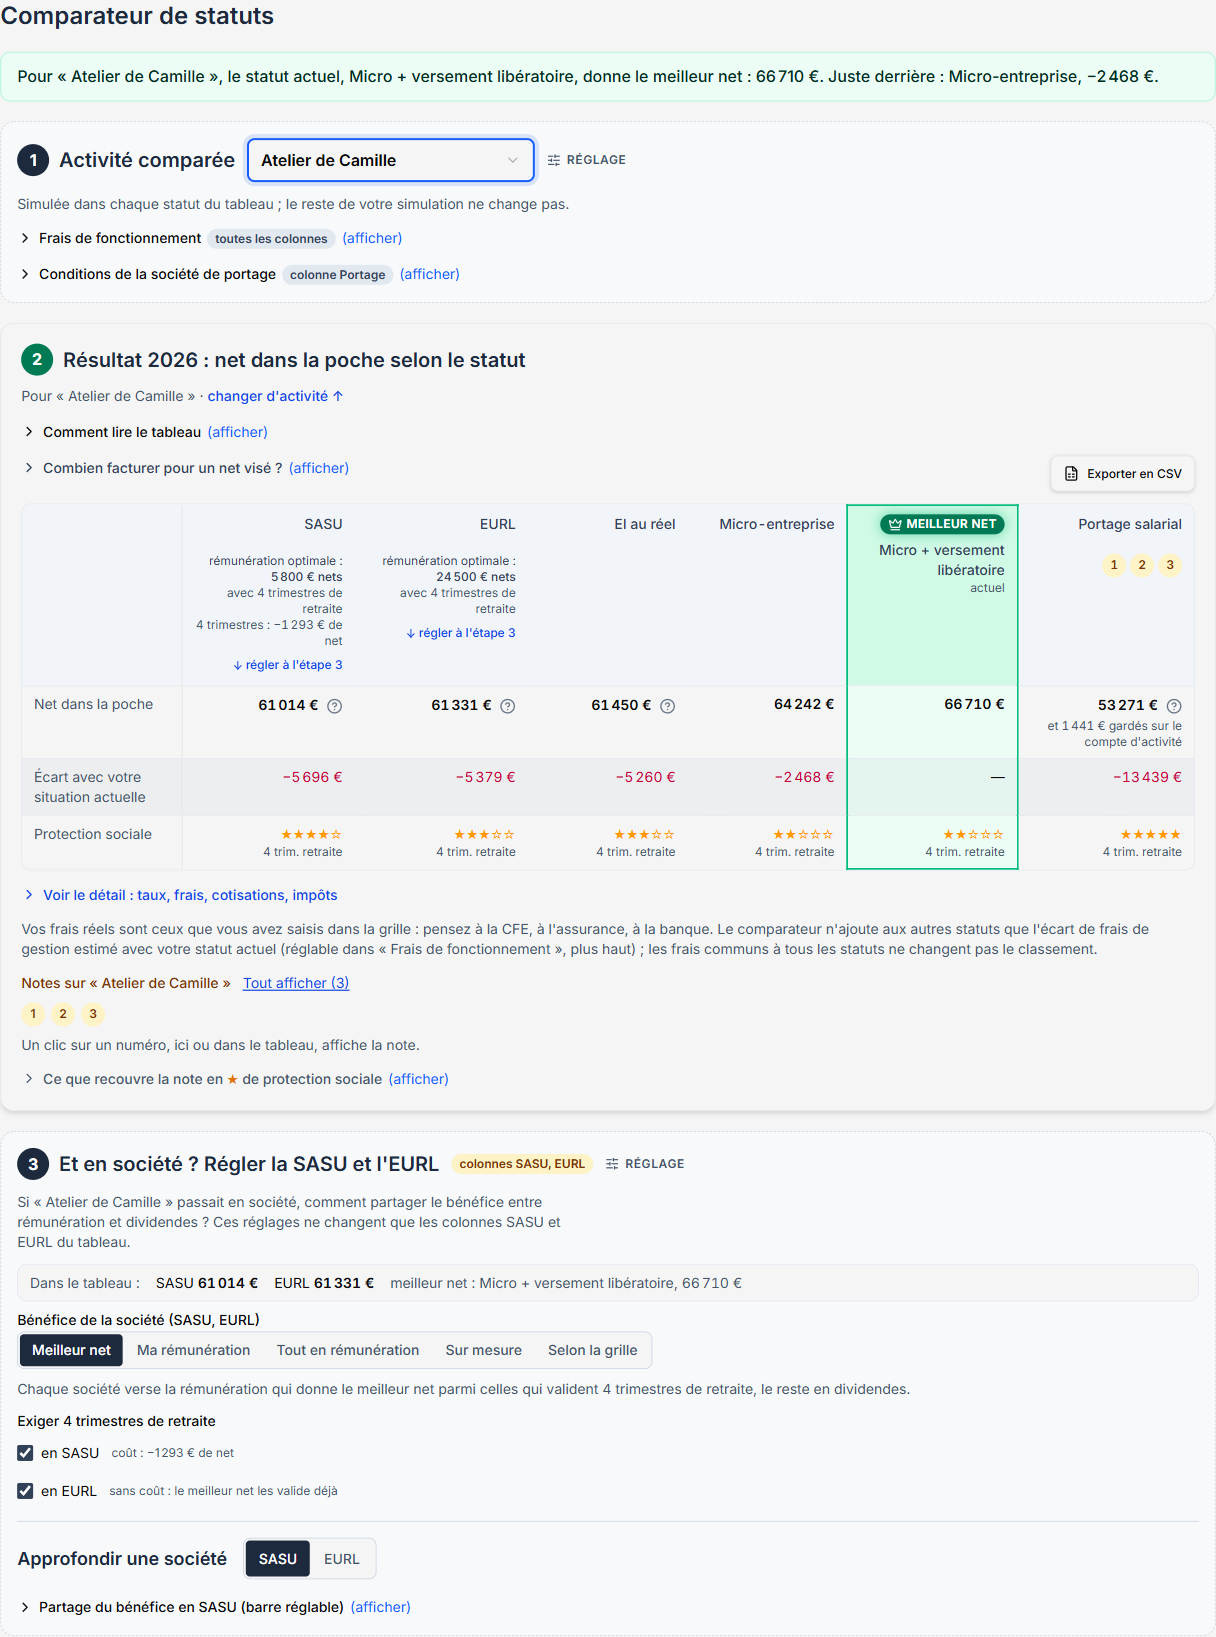
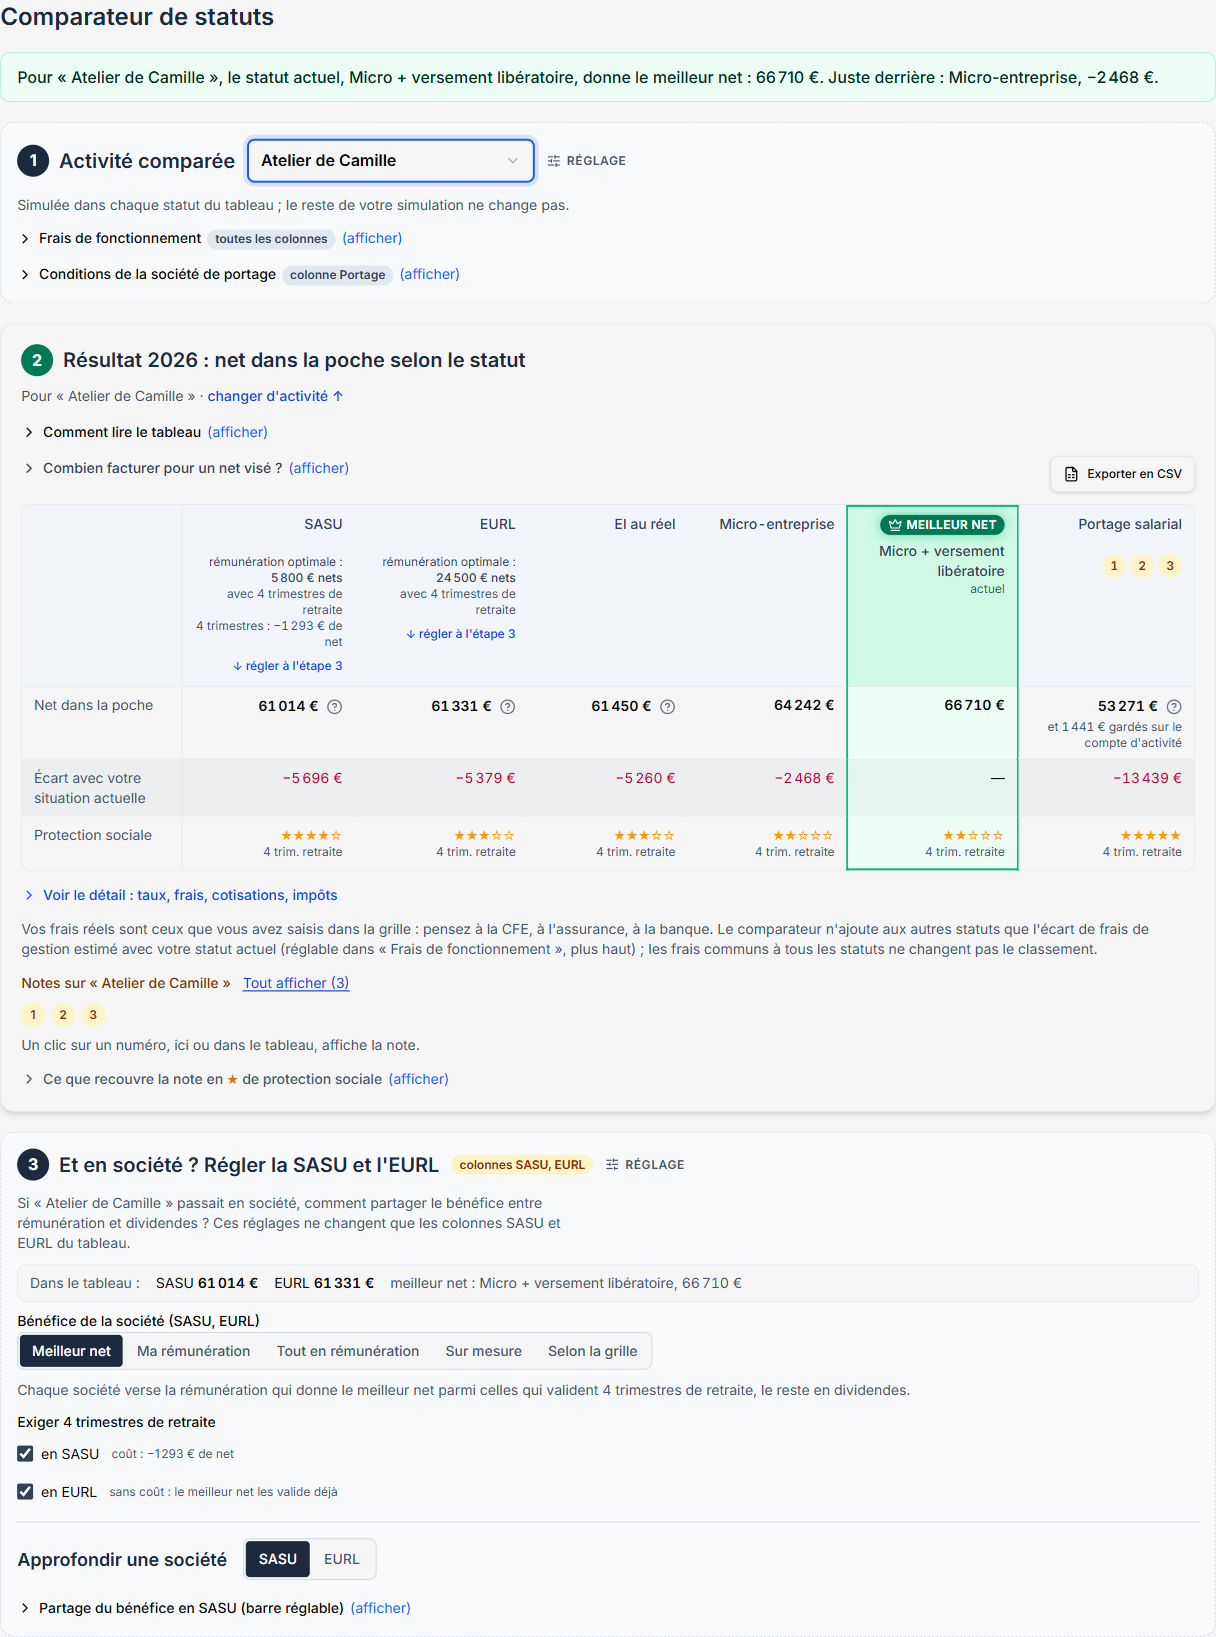
docs: README : accroche « Vous êtes indépendant ? », données sur le poste dans un encadré, couple en union libre dans l'étape 3 ; captures : résultats avec leur détail, carte « Et si vous étiez mariés ou pacsés ? » sur l'exemple en union libre

diff --git a/captures/readme.captures.ts b/captures/readme.captures.ts
@@ -2,11 +2,27 @@
 // Génère les captures d'écran du README (docs/captures/) à partir de la simulation fictive de la démo web.
 
 import path from "node:path"
+import type { ElectronApplication, Page } from "@playwright/test"
 import { test, expect, deposerSession } from "../e2e/support/fixtures"
 import { sessionExemple } from "../src/web/session-exemple"
 
 // À l'échelle CSS (1 pixel par pixel de la page) : des images de même taille quel que soit le facteur d'échelle de l'écran.
 const DOSSIER = path.resolve("docs/captures")
+
+// Pour les captures d'une zone, la barre du haut (fixe) et la barre de résumé (collante) sont masquées : elles la recouvriraient.
+const SANS_BARRE = "nav, [data-barre-collante] { visibility: hidden !important; }"
+
+/**
+ * Agrandit la page pour qu'une zone haute y tienne entière : une zone plus haute que la page est capturée décalée (la
+ * page, recalculée sans barre de défilement, se recentre pendant la capture). Une fenêtre de cette hauteur dépasserait
+ * l'écran, que Windows lui impose : la taille est imposée à la page elle-même.
+ */
+async function pageHaute(electronApp: ElectronApplication, page: Page) {
+  const cdp = await electronApp.context().newCDPSession(page)
+  const facteur = await page.evaluate(() => window.devicePixelRatio)
+  await cdp.send("Emulation.setDeviceMetricsOverride", { width: 1440, height: 2400, deviceScaleFactor: facteur, mobile: false })
+  await expect.poll(() => page.evaluate(() => window.innerHeight)).toBe(2400)
+}
 
 test("captures du README", async ({ dossierDonnees, lancer }) => {
   await deposerSession(dossierDonnees, sessionExemple())
@@ -18,22 +34,22 @@ test("captures du README", async ({ dossierDonnees, lancer }) => {
   await electronApp.evaluate(({ BrowserWindow }) => BrowserWindow.getAllWindows()[0]?.setSize(1440, 1500))
   await expect.poll(() => page.evaluate(() => window.innerHeight)).toBeGreaterThan(1300)
   await page.screenshot({ path: path.join(DOSSIER, "acteurs-et-grille.png"), scale: "css" })
-  await electronApp.evaluate(({ BrowserWindow }) => BrowserWindow.getAllWindows()[0]?.setSize(1440, 900))
-  await expect.poll(() => page.evaluate(() => window.innerHeight)).toBeLessThan(1000)
 
-  // La barre du haut est fixe et la barre de résumé collée dessous : on fait défiler pour que la section commence sous les deux.
-  await page.getByRole("heading", { name: "Résultats de simulation" }).evaluate(titre => window.scrollTo(0, titre.getBoundingClientRect().top + window.scrollY - 140))
-  await page.screenshot({ path: path.join(DOSSIER, "resultats.png"), scale: "css" })
+  await pageHaute(electronApp, page)
 
-  // Pour les captures d'une zone, la barre du haut (fixe) et la barre de résumé (collante) sont masquées : elles la
-  // recouvriraient. La page est agrandie pour que le comparateur, en trois étapes, y tienne entier : une zone plus haute
-  // que la page est capturée décalée (la page, recalculée sans barre de défilement, se recentre pendant la capture). Une
-  // fenêtre de cette hauteur dépasserait l'écran, que Windows lui impose : la taille est imposée à la page elle-même.
-  const sansBarre = "nav, [data-barre-collante] { visibility: hidden !important; }"
-  const cdp = await electronApp.context().newCDPSession(page)
-  const facteur = await page.evaluate(() => window.devicePixelRatio)
-  await cdp.send("Emulation.setDeviceMetricsOverride", { width: 1440, height: 2400, deviceScaleFactor: facteur, mobile: false })
-  await expect.poll(() => page.evaluate(() => window.innerHeight)).toBe(2400)
+  // Les résultats avec leur détail : celui du net dans la poche, puis celui de chaque carte. La capture va du titre des
+  // résultats à celui du comparateur, qui les suit, sans la barre de défilement de la page.
+  await page.locator("summary", { hasText: "Détail du calcul" }).click()
+  await page.getByRole("button", { name: "Afficher le détail (toutes les cartes)" }).first().click()
+  await expect(page.getByRole("button", { name: "Masquer le détail (toutes les cartes)" }).first()).toBeVisible()
+  const titreDesResultats = page.getByRole("heading", { name: "Résultats de simulation" })
+  await titreDesResultats.evaluate(titre => window.scrollTo(0, titre.getBoundingClientRect().top + window.scrollY - 24))
+  const [haut, bas, largeur] = await page.evaluate(() => {
+    const bord = (nom: string) => Array.from(document.querySelectorAll("h2")).find(titre => titre.textContent?.trim() === nom)!.getBoundingClientRect().top
+    return [bord("Résultats de simulation"), bord("Comparateur de statuts"), document.documentElement.clientWidth]
+  })
+  await page.screenshot({ path: path.join(DOSSIER, "resultats.png"), scale: "css", style: SANS_BARRE, clip: { x: 0, y: haut - 24, width: largeur, height: bas - haut } })
+
   const comparateur = page.getByRole("region", { name: "Comparateur de statuts" })
   const optimisation = page.getByRole("region", { name: "Rémunération ou dividendes ?" })
   await expect(comparateur.getByRole("table", { name: "Comparaison des statuts" })).toBeVisible()
@@ -41,7 +57,21 @@ test("captures du README", async ({ dossierDonnees, lancer }) => {
   // Le tableau des statuts seul, sans la section d'optimisation qui le suit ; une référence à l'élément la retrouve une fois masquée.
   const sectionOptimisation = await optimisation.elementHandle()
   await sectionOptimisation!.evaluate(section => section.setAttribute("hidden", ""))
-  await comparateur.screenshot({ path: path.join(DOSSIER, "comparateur.png"), scale: "css", style: sansBarre })
+  await comparateur.screenshot({ path: path.join(DOSSIER, "comparateur.png"), scale: "css", style: SANS_BARRE })
   await sectionOptimisation!.evaluate(section => section.removeAttribute("hidden"))
-  await optimisation.screenshot({ path: path.join(DOSSIER, "optimisation.png"), scale: "css", style: sansBarre })
+  await optimisation.screenshot({ path: path.join(DOSSIER, "optimisation.png"), scale: "css", style: SANS_BARRE })
+})
+
+test("capture du couple en union libre", async ({ dossierDonnees, lancer }) => {
+  // La simulation de la démo, Camille et Julien en union libre au lieu d'être pacsés : le comparateur montre alors ce que
+  // changerait un mariage ou un PACS. La démo elle-même n'est pas touchée.
+  const exemple = sessionExemple()
+  const enUnionLibre = { ...exemple, relationships: exemple.relationships.map(relation => (relation.type === "PACSé(e)" ? { ...relation, type: "En couple" as const } : relation)) }
+  await deposerSession(dossierDonnees, enUnionLibre)
+  const { page, electronApp } = await lancer()
+  await pageHaute(electronApp, page)
+
+  const carte = page.getByRole("region", { name: "Et si vous étiez mariés ou pacsés ?" })
+  await expect(carte).toBeVisible()
+  await carte.screenshot({ path: path.join(DOSSIER, "couple.png"), scale: "css", style: SANS_BARRE })
 })

diff --git a/README.md b/README.md
@@ -7,15 +7,18 @@
 [![Démo web](https://img.shields.io/badge/démo-en%20ligne-brightgreen.svg)](https://damienbecherini.github.io/simulateur-independant-fr/)
 [![Avis des utilisateurs](https://img.shields.io/badge/dynamic/json?url=https%3A%2F%2Fdamienbecherini.github.io%2Fsimulateur-independant-fr%2Fretours.json&query=%24.resume&label=avis&color=blue)](https://github.com/DamienBecherini/simulateur-independant-fr/issues?q=label%3Aretour)
 
-**Combien vous restera-t-il vraiment, selon votre statut ?** Un simulateur gratuit, hors ligne et open source pour les indépendants français et leur foyer.
+**Vous êtes indépendant ? Combien vous restera-t-il vraiment à la fin de l'année, selon votre statut ?**
+
+Un simulateur gratuit, hors ligne et open source, pour vous et votre foyer.
 
 1. **Ma situation** : décrivez les personnes du foyer, vos activités (micro-entreprise, entreprise individuelle, EURL, SASU) et leurs liens, puis vos revenus et charges mois par mois.
 2. **Mes résultats** : cotisations de chaque activité, impôt sur le revenu du foyer, net dans la poche et taux de prélèvement, recalculés à chaque modification.
-3. **Comparer et optimiser** : la même activité en SASU, EURL, EI au réel, micro-entreprise (avec ou sans versement libératoire) et portage salarial, puis le partage entre rémunération et dividendes qui donne le meilleur net.
+3. **Comparer et optimiser** : la même activité en SASU, EURL, EI au réel, micro-entreprise (avec ou sans versement libératoire) et portage salarial, puis le partage entre rémunération et dividendes qui donne le meilleur net, et, pour un couple en union libre, ce que changerait un mariage ou un PACS.
 
 **[▶ Essayer la démo en ligne](https://damienbecherini.github.io/simulateur-independant-fr/)**, sans installation · [Microsoft Store](https://apps.microsoft.com/detail/9PJBJWX5WS72) · [Windows, macOS, Linux](https://github.com/DamienBecherini/simulateur-independant-fr/releases/latest)
 
-Vos données restent sur votre poste : ni compte, ni serveur, ni mesure d'audience.
+> [!TIP]
+> 🔒 **Vos données restent sur votre poste** : ni compte, ni serveur, ni mesure d'audience.
 
 *Projet personnel, né d'un besoin d'entrepreneur. Je le partage pour montrer mes standards de code et ma vision produit, et parce qu'il peut aider d'autres entrepreneurs à y voir plus clair. Ce n'est pas un logiciel de conseil fiscal : les résultats sont indicatifs et n'ont pas été validés par un expert-comptable.*
 
@@ -33,9 +36,13 @@ Simulation fictive : une indépendante en micro-entreprise mixte, pacsée avec l
 
 | Acteurs et relations | Résultats du foyer |
 |---|---|
-| ![Acteurs et relations, éditables sur leur carte](docs/captures/acteurs-et-grille.png) | ![Bilan : net dans la poche, taux de prélèvement, détail par foyer](docs/captures/resultats.png) |
+| ![Acteurs et relations, éditables sur leur carte](docs/captures/acteurs-et-grille.png) | ![Bilan : net dans la poche, taux de prélèvement et détail du calcul, puis le détail de chaque foyer et de chaque activité](docs/captures/resultats.png) |
 
 ![Comparateur de statuts en trois étapes : l'activité comparée, le net dans la poche de chaque statut avec le meilleur net mis en évidence, puis le partage du bénéfice de la SASU et de l'EURL](docs/captures/comparateur.png)
+
+Le même foyer en union libre : le comparateur dit ce que changerait un mariage ou un PACS.
+
+![Et si vous étiez mariés ou pacsés ? Le gain du couple en net après impôts, et l'impôt sur le revenu en union libre et imposés ensemble](docs/captures/couple.png)
 
 ![Rémunération ou dividendes : courbe du net du foyer selon la rémunération, meilleur net et meilleur net avec 4 trimestres de retraite](docs/captures/optimisation.png)
 
